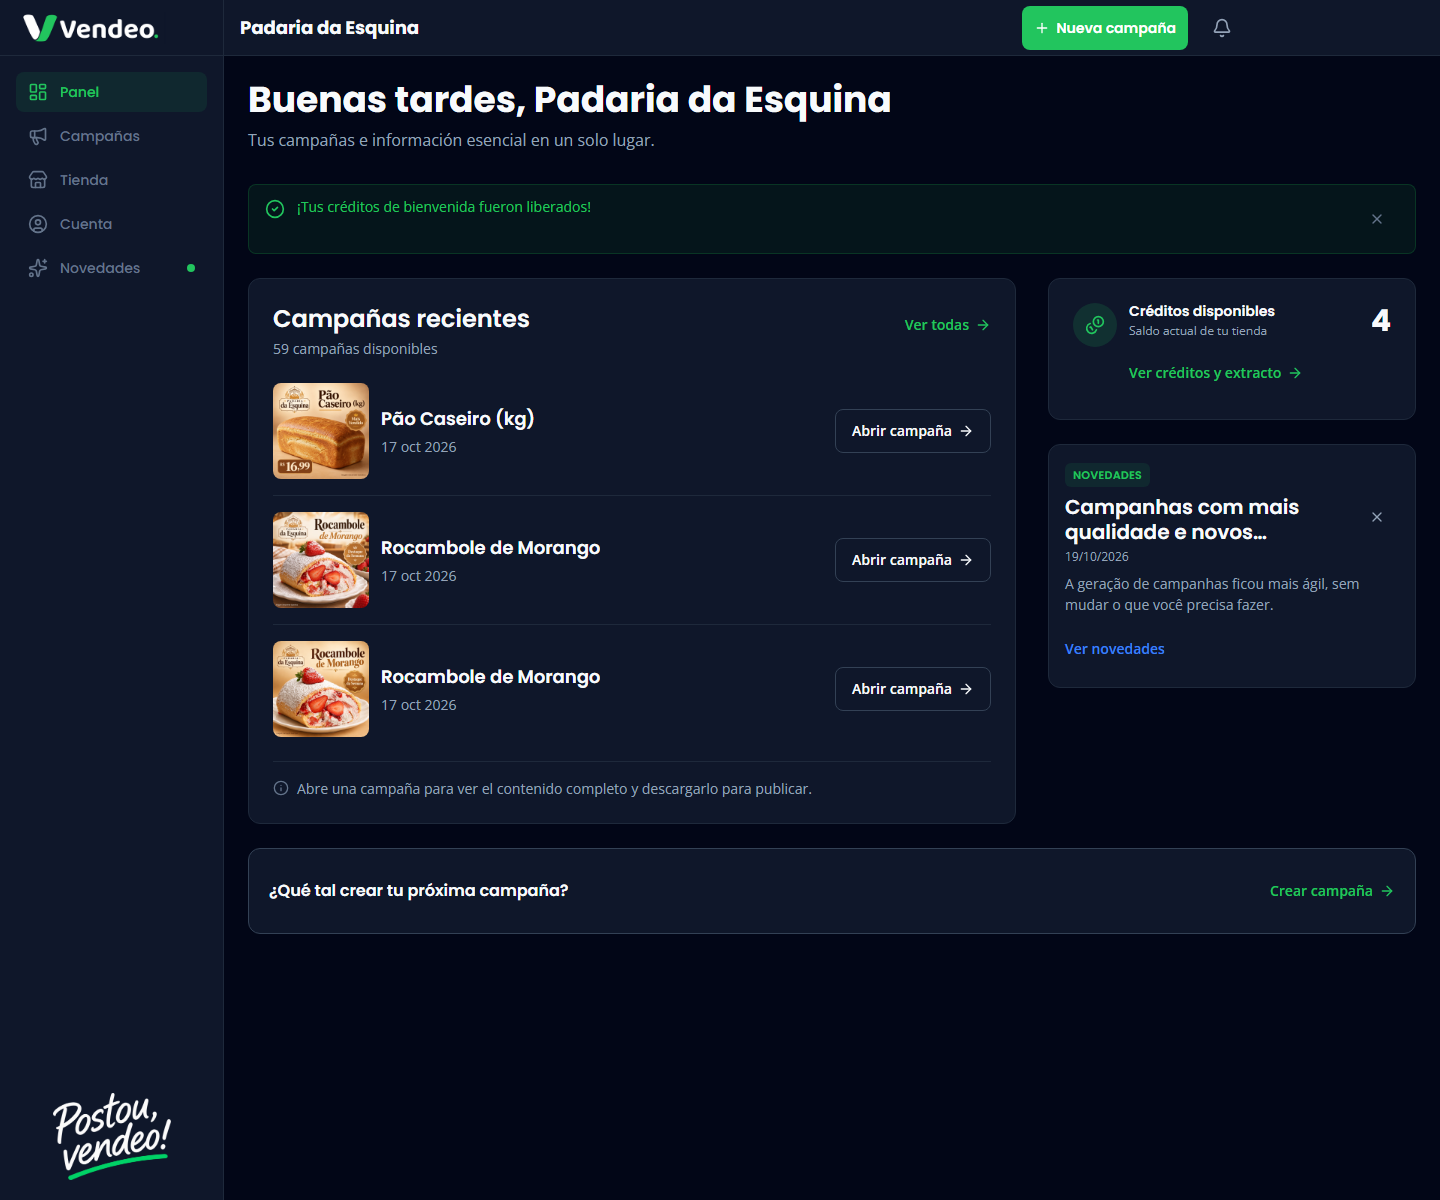
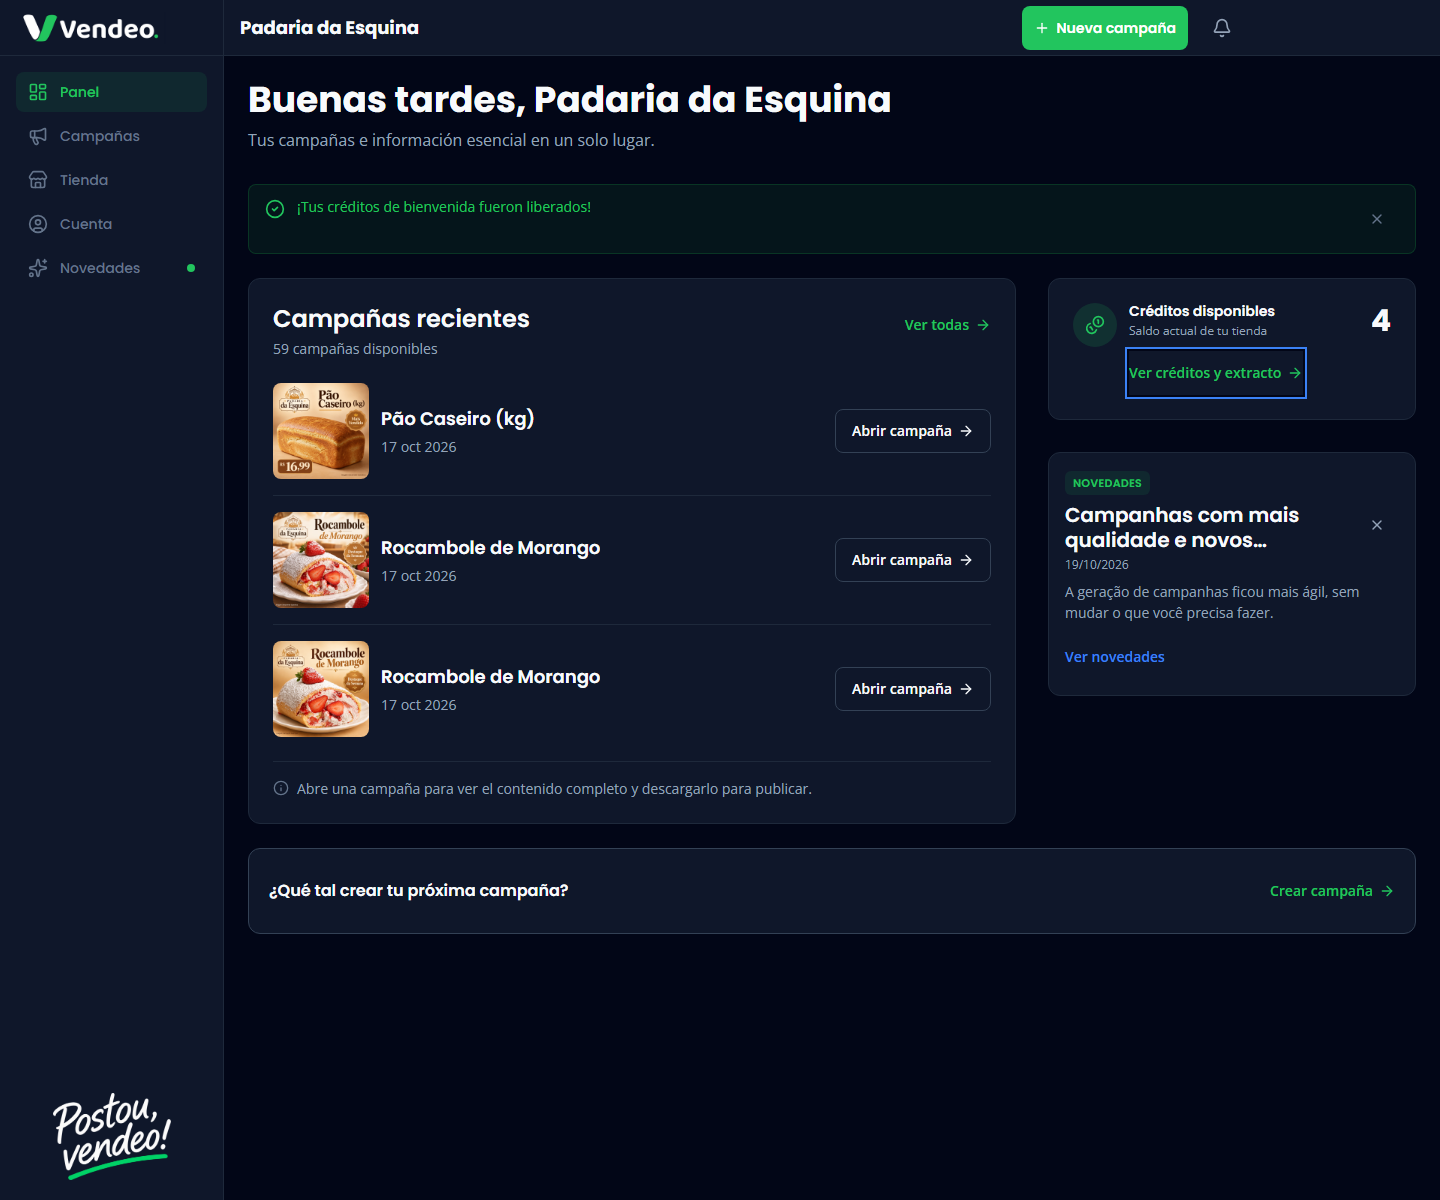
fix(58): restore DOM order for sidebar accessibility

Changed region(s): [[0.7188, 0.37, 0.9375, 0.555]]

diff --git a/src/__tests__/app/dashboard/dashboard-layout-order.test.tsx b/src/__tests__/app/dashboard/dashboard-layout-order.test.tsx
@@ -126,15 +126,16 @@ beforeEach(() => {
 });
 
 describe("DashboardPage — ordem responsive e placements", () => {
-  it("preserva a ordem mobile créditos → campanhas → novidades por order classes", async () => {
+  it("preserva a ordem real do DOM: créditos → campanhas → novidades", async () => {
     const html = await renderPage();
 
-    expect(html).toContain("order-1");
-    expect(html).toContain("order-2");
-    expect(html).toContain("order-3");
-    expect(html.indexOf("credits-title")).toBeGreaterThan(-1);
-    expect(html.indexOf("campaigns-title")).toBeGreaterThan(-1);
-    expect(html.indexOf('aria-label="Novidades"')).toBeGreaterThan(-1);
+    const credits = html.indexOf("credits-title");
+    const campaigns = html.indexOf("campaigns-title");
+    const news = html.indexOf('aria-label="Novidades"');
+
+    expect(credits).toBeGreaterThan(-1);
+    expect(campaigns).toBeGreaterThan(credits);
+    expect(news).toBeGreaterThan(campaigns);
   });
 
   it("usa placements explícitos do desktop", async () => {
@@ -144,19 +145,16 @@ describe("DashboardPage — ordem responsive e placements", () => {
     expect(html).toContain("lg:row-start-1");
     expect(html).toContain("lg:col-span-2");
     expect(html).toContain("lg:col-start-1");
-    expect(html).toContain("lg:flex");
-    expect(html).toContain("lg:flex-col");
-    expect(html).toContain("lg:gap-6");
     expect(html).toContain("lg:grid-cols-3");
+    expect(html).toContain("lg:grid-rows-[min-content_1fr]");
   });
 
-  it("usa order apenas para preservar a ordem mobile do wrapper", async () => {
+  it("não usa order nem tabindex positivo", async () => {
     const html = await renderPage();
 
-    expect(html).toContain("order-1");
-    expect(html).toContain("order-2");
-    expect(html).toContain("order-3");
+    expect(html).not.toMatch(/(^|["\s])order-(first|last|none|\d)/);
     expect(html).not.toContain('style="order');
+    expect(html).not.toMatch(/tabindex=["']?[1-9]/);
   });
 
   it("não expõe métricas técnicas nem recomendação", async () => {

diff --git a/src/app/(app)/dashboard/page.tsx b/src/app/(app)/dashboard/page.tsx
@@ -140,28 +140,16 @@ export default async function DashboardPage() {
         }}
       />
 
-      <div className="grid grid-cols-1 gap-6 lg:grid-cols-3 lg:gap-8">
-        <div className="contents lg:col-start-3 lg:row-start-1 lg:flex lg:flex-col lg:gap-6">
-          <div className="order-1 min-w-0 lg:order-none">
-            <DashboardCredits
-              state={credit.ok ? credit.data : { state: "unavailable" }}
-              messages={messages.credits}
-              locale={locale}
-            />
-          </div>
-
-          {entry ? (
-            <div className="order-3 min-w-0 lg:order-none">
-              <DashboardNews
-                entry={entry}
-                excerpt={excerpt}
-                labels={messages.news}
-              />
-            </div>
-          ) : null}
+      <div className="grid grid-cols-1 gap-6 lg:grid-cols-3 lg:grid-rows-[min-content_1fr] lg:gap-8">
+        <div className="min-w-0 lg:col-start-3 lg:row-start-1">
+          <DashboardCredits
+            state={credit.ok ? credit.data : { state: "unavailable" }}
+            messages={messages.credits}
+            locale={locale}
+          />
         </div>
 
-        <div className="order-2 min-w-0 lg:order-none lg:col-span-2 lg:col-start-1 lg:row-start-1">
+        <div className="min-w-0 lg:col-span-2 lg:col-start-1 lg:row-start-1 lg:row-span-2">
           <DashboardCampaigns
             count={campaign.ok ? campaign.data.count : 0}
             items={items}
@@ -171,6 +159,16 @@ export default async function DashboardPage() {
             openAriaLabels={openAriaLabels}
           />
         </div>
+
+        {entry ? (
+          <div className="min-w-0 lg:col-start-3 lg:row-start-2">
+            <DashboardNews
+              entry={entry}
+              excerpt={excerpt}
+              labels={messages.news}
+            />
+          </div>
+        ) : null}
       </div>
 
       <DashboardShortcut messages={messages.shortcut} />

diff --git a/.planning/phases/58-f58-composi-o-operacional-do-dashboard/evidence/58-05-automated-gates.md b/.planning/phases/58-f58-composi-o-operacional-do-dashboard/evidence/58-05-automated-gates.md
@@ -284,3 +284,11 @@ A composição foi corrigida para a montagem aprovada: cabeçalho com subtítulo
 | OpenSpec strict | `openspec validate fase-58-composicao-operacional-do-dashboard --strict` | **0** | valid |
 
 Capturas reais pt-BR: `evidence/58-05-visual-desktop.png`, `evidence/58-05-visual-mobile.png` e `evidence/58-05-visual-mobile-320.png`. Capturas es-419: `evidence/58-05-visual-desktop-es.png` e `evidence/58-05-visual-mobile-es.png`. Metadados e restauração da preferência em `evidence/58-05-visual-captures.md`. Nenhum push, merge, deploy, migration, alteração de schema ou produção foi executado. A única escrita temporária foi a preferência de idioma do usuário de teste no homolog, autorizada, com restauração confirmada para `pt-BR`/`explicit`.
+
+## 9. Correção de ordem DOM da lateral (2026-11-02)
+
+A lateral voltou a ser posicionada por grade (`lg:grid-rows-[min-content_1fr]`), sem `order` e sem `tabindex` positivo. O DOM permanece créditos → campanhas → novidades → faixa de criação, com o mesmo resultado visual e o mesmo espaçamento fixo entre créditos e novidades.
+
+- Teste de DOM: créditos antes de campanhas; campanhas antes de novidades; ausência de `order-*` e `tabindex` positivo.
+- Tab real no navegador: pt-BR e es-419, índice 10 (créditos) → 12 (primeira campanha) → 16 (novidades), PASS.
+- Preferência es-419 alterada somente pelo fluxo de Configurações e restaurada para `pt-BR`/`explicit`; versão CAS 8. Nenhum outro dado alterado.

diff --git a/.planning/phases/58-f58-composi-o-operacional-do-dashboard/58-UI-SPEC.md b/.planning/phases/58-f58-composi-o-operacional-do-dashboard/58-UI-SPEC.md
@@ -142,9 +142,9 @@ Rules:
   - Campaigns: `lg:col-span-2 lg:col-start-1 lg:row-start-1 lg:row-span-2` (primary column).
   - Credits: `lg:col-start-3 lg:row-start-1` (highlighted).
   - News: `lg:col-start-3 lg:row-start-2`.
-  - Use explicit `col-start`/`row-start` for desktop placement. Mobile may use scoped `order-1/2/3` only to preserve credits → campaigns → news while credits/news share an independent desktop stack.
+  - Use explicit `col-start`/`row-start` for desktop placement, with `lg:grid-rows-[min-content_1fr]` so news sits directly below credits while campaigns span both rows. Never use CSS `order` or positive `tabindex`; DOM order MUST remain credits → campaigns → news → fixed band.
 - The fixed creation band is a full-width section below the grid, never a sidebar card.
-- Mobile DOM order: credits → campaigns → news → fixed creation band. The shortcut never appears between credits and news.
+- DOM order (mobile and keyboard/reading): credits → campaigns → news → fixed creation band. The shortcut never appears between credits and news.
 - `no_store`: header (neutral welcome) + `EmptyState` only. **No** credits query, no campaigns query, no announcement, no banner. Header shows **no** action buttons; the single CTA lives in the empty state to avoid duplication.
 - `no_eligible_campaigns` / `has_eligible_campaigns`: full grid with credits and news; campaigns section shows empty state (count 0) or cards.
 
